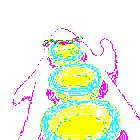
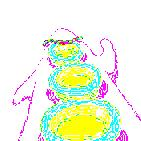
Not allowing to remove border pixels from compression

diff --git a/src/bivariate_interpolation.m b/src/bivariate_interpolation.m
@@ -13,6 +13,7 @@ function main(args)
   y = -0.357;
   # Compression rate
   compression_rate = 5;
+  #TODO: add as program parameters and make check-ups!
   ##########
 
   # Get arguments
@@ -20,8 +21,6 @@ function main(args)
 
   # Get image
   [image_, image_R, image_G, image_B] = get_image_matrices(image_path);
-  #TODO: DELETE IF USELESS
-  #[nx, ny, ax, ay, bx, by, hx, hy] = get_image_parameters(image_);
 
   # Compress image and save the compressed images
   printf("Compressing '%s'... ", image_path);
@@ -77,6 +76,8 @@ function main(args)
   printf("Computing mixed derivatives (d2fxy) for the compressed image (\033[0;34mblue channel\033[0m)... ");
   d2fxy_B = compute_d2fxy(ax, ay, bx, by, hx, hy, dfy_B);
   printf("Done!\n");
+
+  
 
 endfunction
 
@@ -195,10 +196,11 @@ endfunction
 # Compress image using the compression rate parameter
 function fx = compress(image_, compression_rate)
   fx = [];
+  [nx, ny, ax, ay, bx, by, hx, hy] = get_image_parameters(image_);
 
   row = rows(image_);
   while row >= 1
-    if rem(row, compression_rate) == 0
+    if rem(row, compression_rate) == 0 && !bot_border_pixel(ay, row) && !top_border_pixel(by, row)
       row--;
       continue;
     endif
@@ -206,7 +208,7 @@ function fx = compress(image_, compression_rate)
     column = 1;
     new_row = [];
     while column <= columns(image_)
-      if rem(column, compression_rate) == 0
+      if rem(column, compression_rate) == 0 && !left_border_pixel(ax, column) && !right_border_pixel(bx, column)
         column++;
         continue;
       endif
